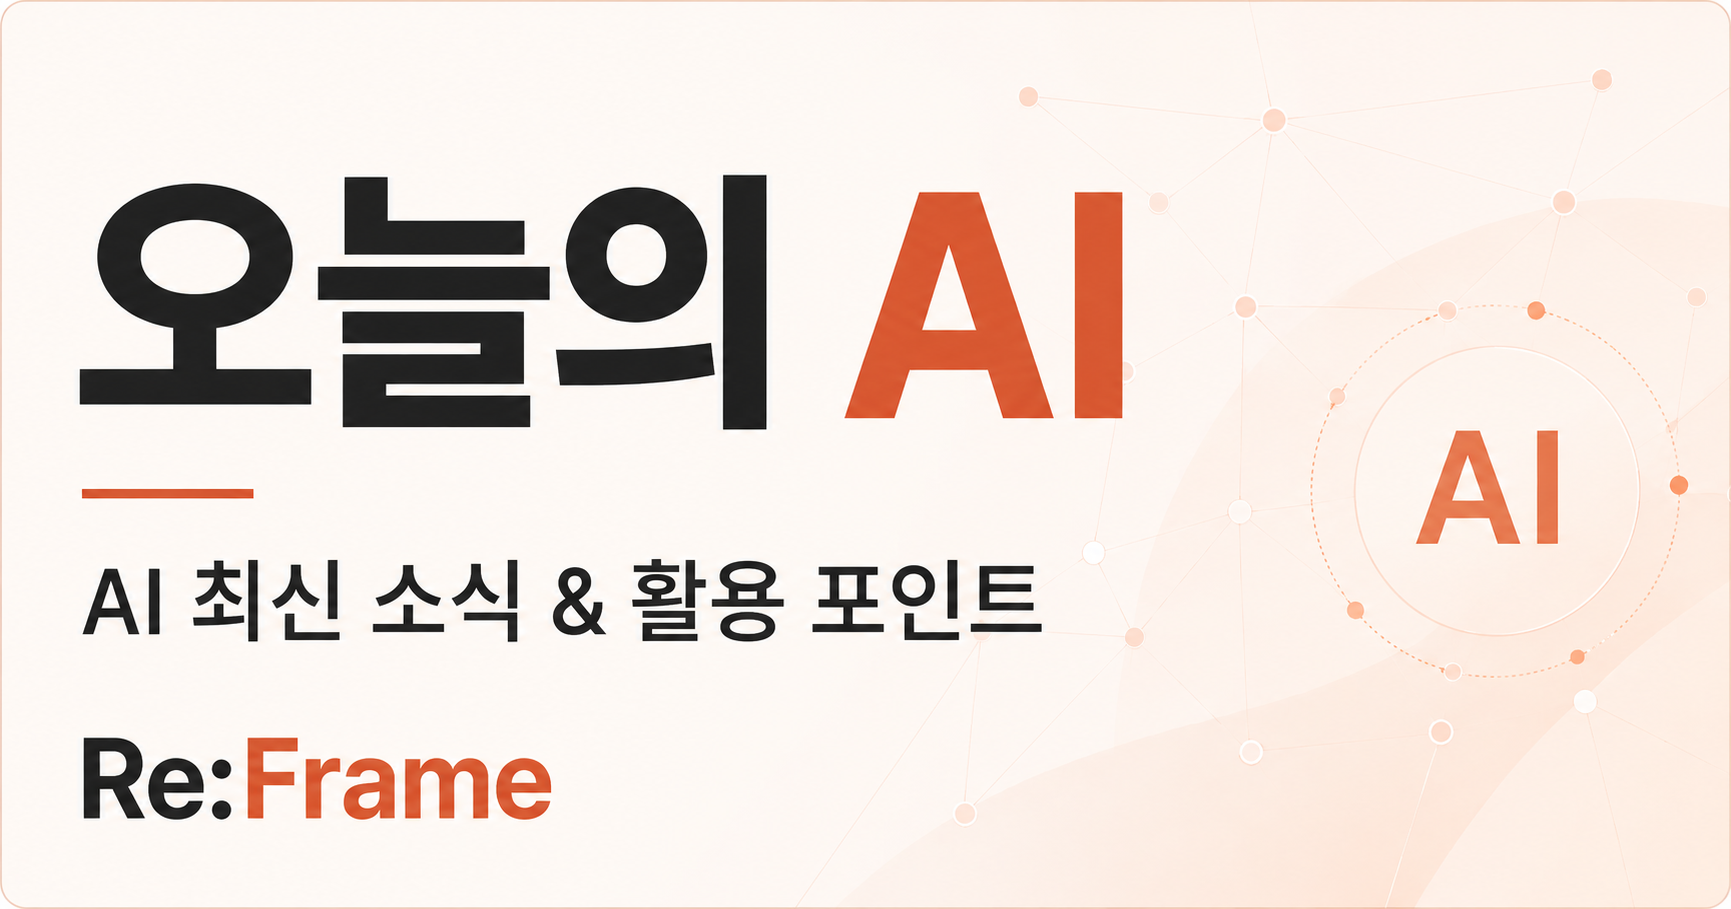
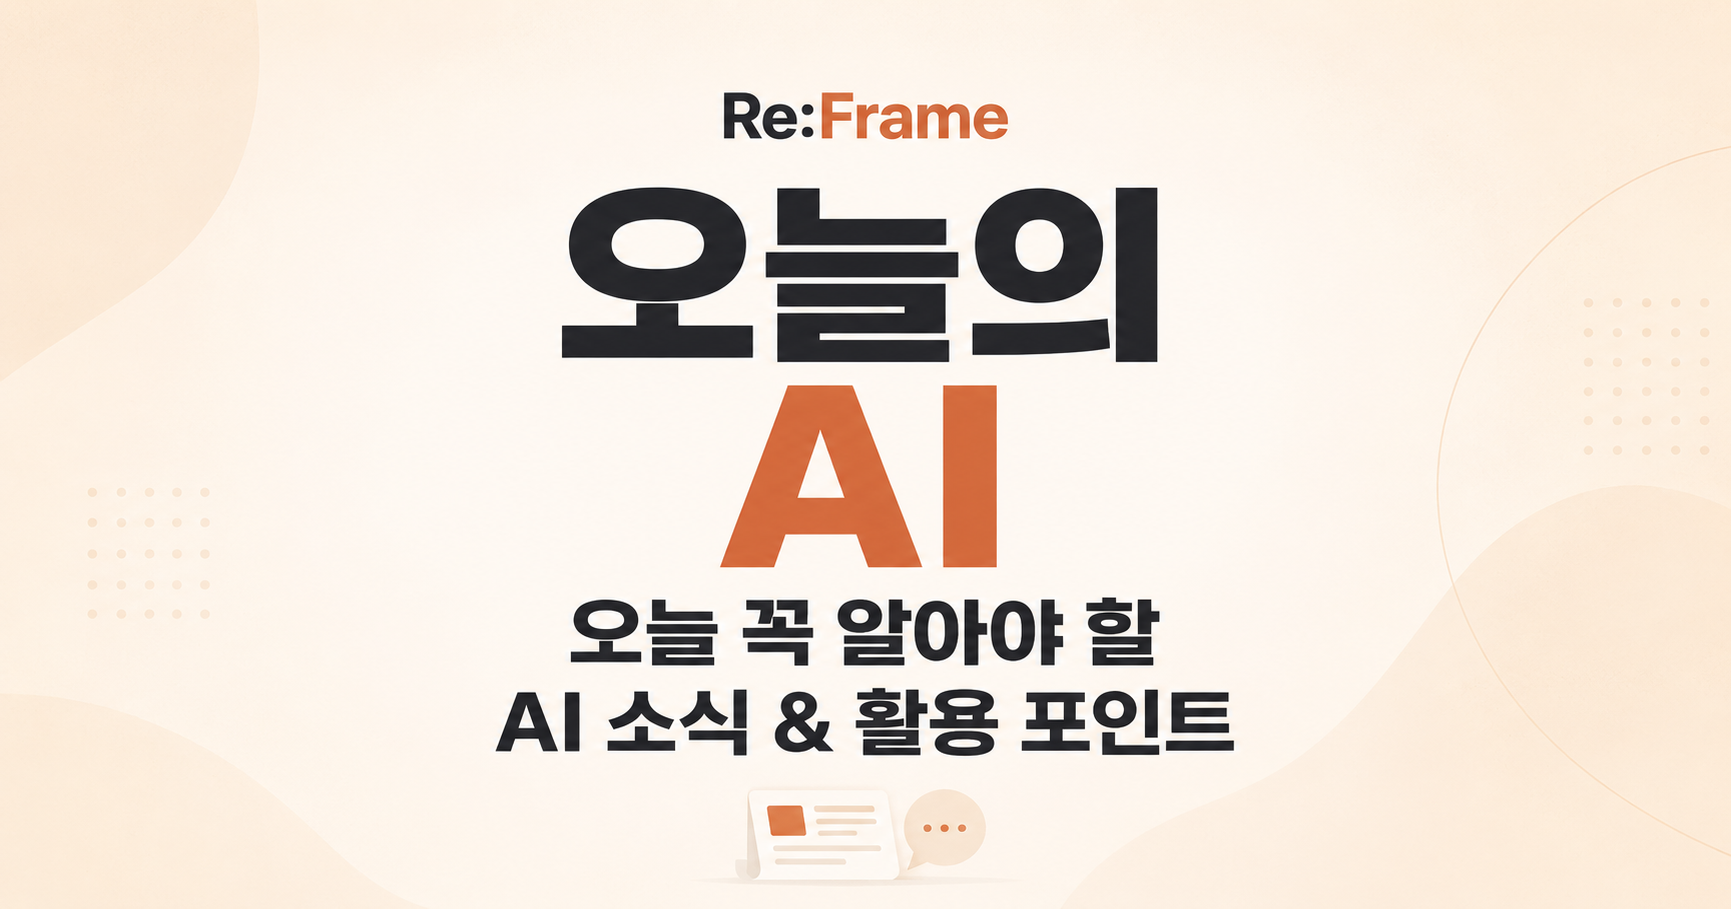
모바일: 네트워크 캔버스 숨김, 이미지 3:2 비율로 전체 표시

diff --git a/src/App.jsx b/src/App.jsx
@@ -308,7 +308,7 @@ export default function App() {
 
       {/* ── HERO ─────────────────────────────────────────────── */}
       <section className="relative min-h-screen flex items-center bg-bg_cream overflow-hidden">
-        <NetworkCanvas />
+        <div className="hidden md:block"><NetworkCanvas /></div>
         <div className="relative z-10 max-w-6xl mx-auto px-6 pt-28 pb-20 animate-fade-in-up">
 
           {/* 애니메이션 태그 목록 */}
@@ -406,11 +406,11 @@ export default function App() {
           </div>
 
           {/* 오른쪽: 경력 이미지 */}
-          <div className="rounded-2xl overflow-hidden">
+          <div className="rounded-2xl overflow-hidden bg-[#F5F0EA]">
             <img
               src={`${import.meta.env.BASE_URL}Image.png`}
               alt="창작과 현장을 거쳐, 교육과 AI로"
-              className="w-full h-full object-cover min-h-[300px]"
+              className="w-full object-contain md:object-cover md:h-full md:min-h-[300px] aspect-[3/2] md:aspect-auto"
             />
           </div>
         </div>